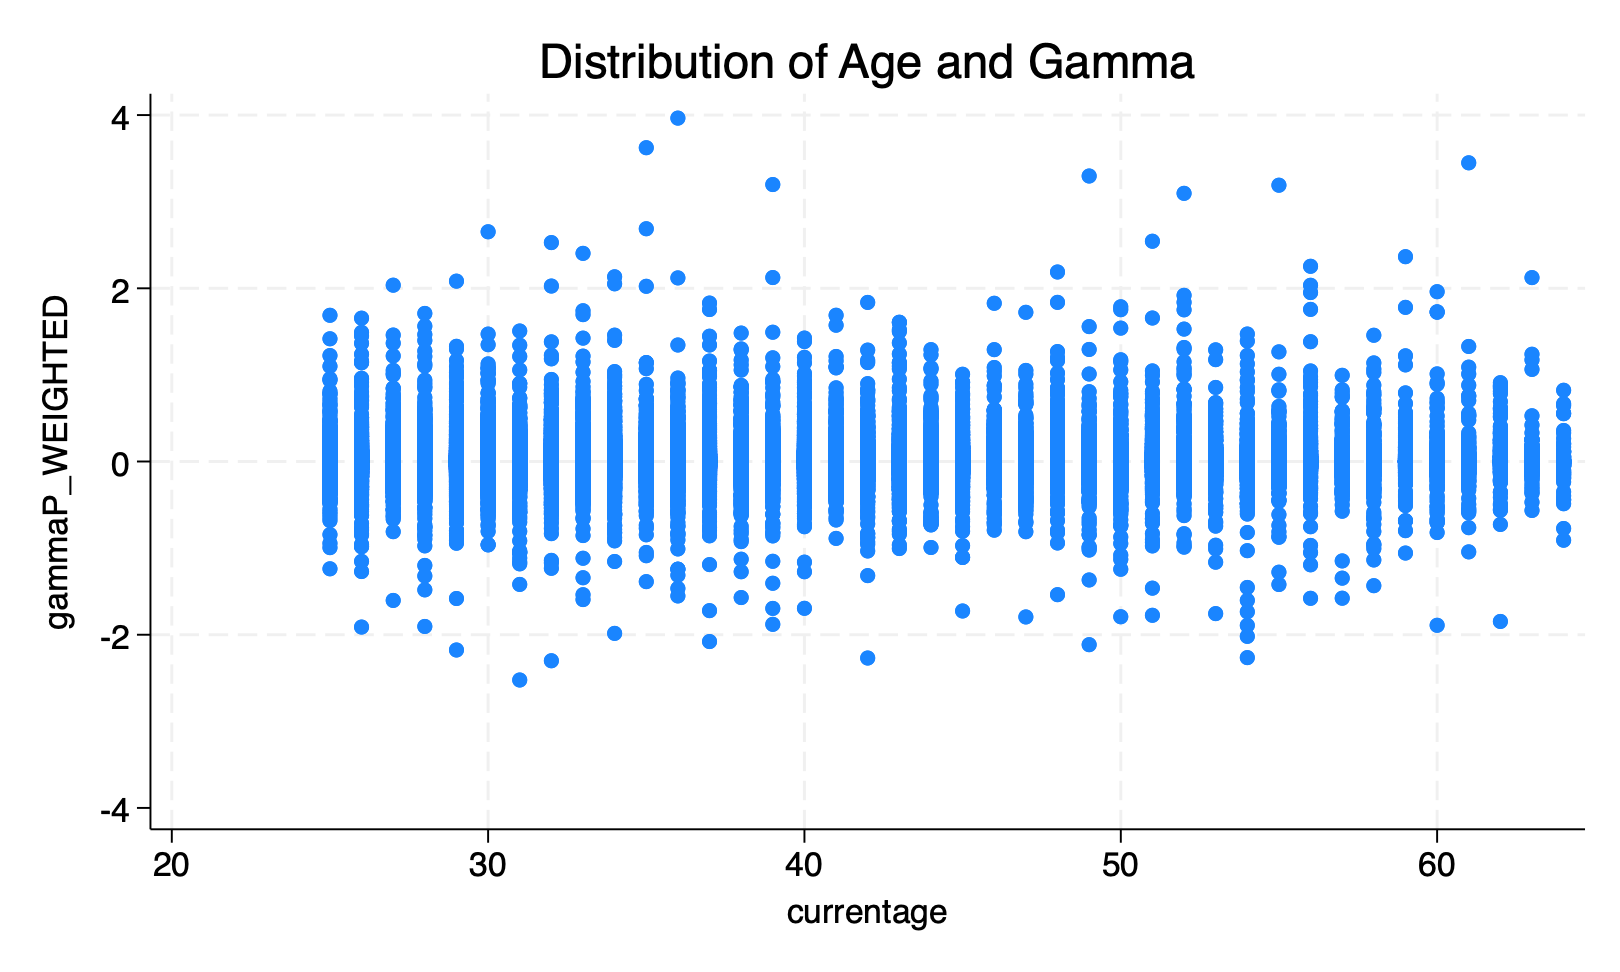
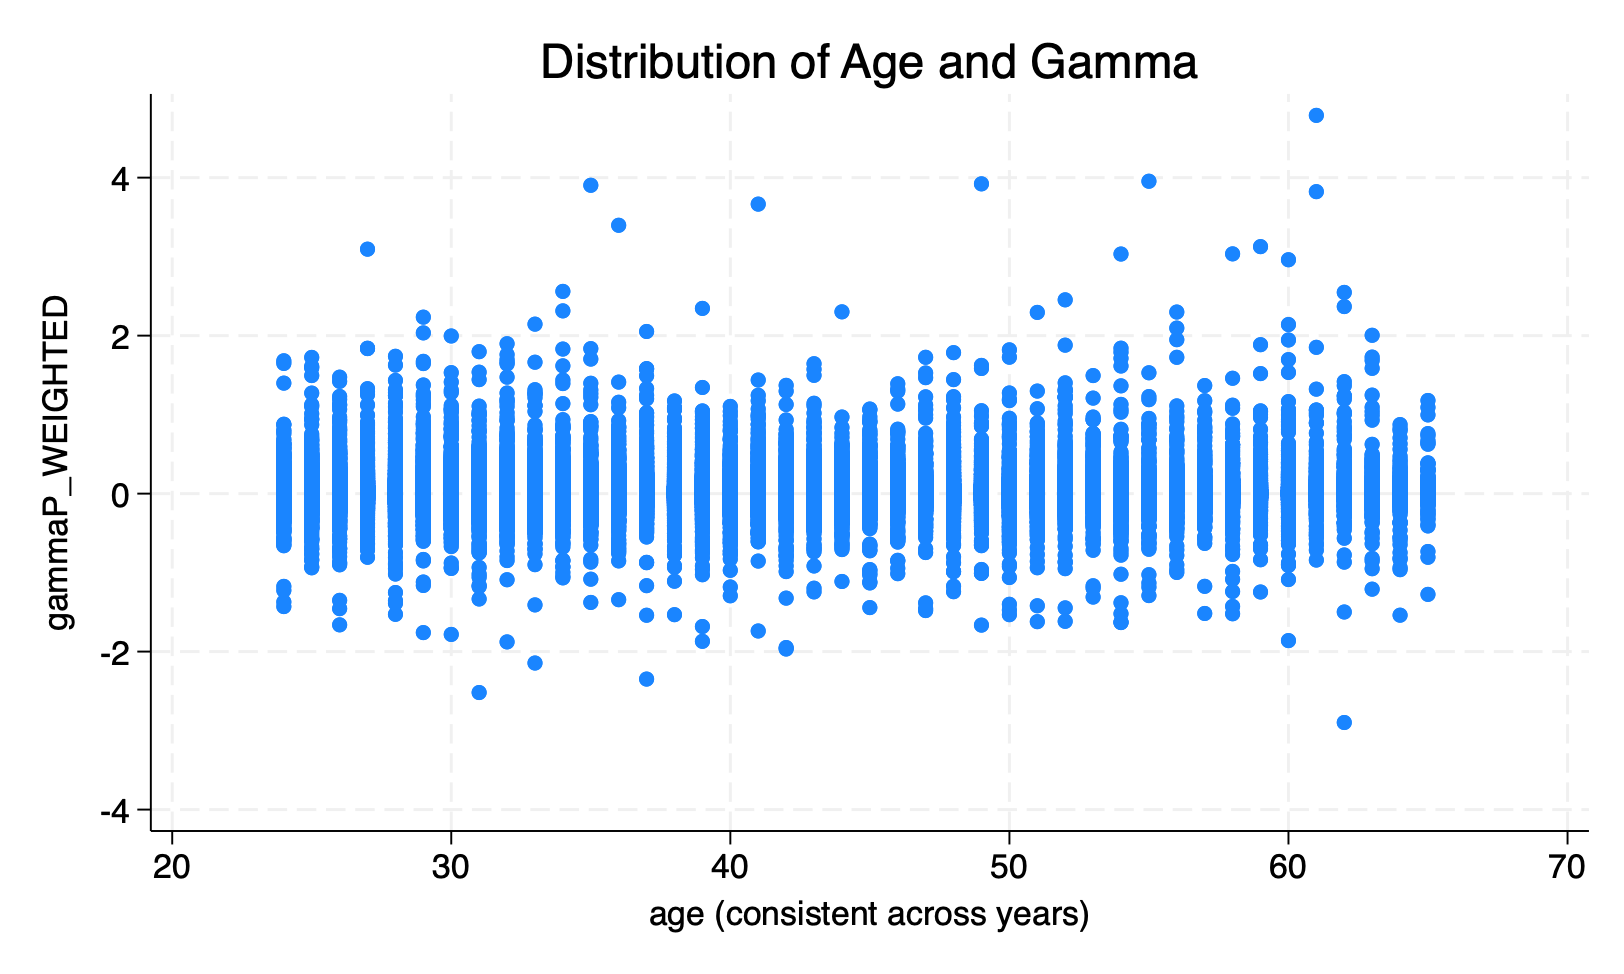
RUNS IN ONE SHOT

diff --git a/OtherOutput/gamma_regressions.tex b/OtherOutput/gamma_regressions.tex
@@ -5,44 +5,41 @@
                     &\multicolumn{1}{c}{(1)}&\multicolumn{1}{c}{(2)}&\multicolumn{1}{c}{(3)}&\multicolumn{1}{c}{(4)}&\multicolumn{1}{c}{(5)}\\
                     &\multicolumn{1}{c}{gammaP\_WEIGHTED}&\multicolumn{1}{c}{gammaP\_WEIGHTED}&\multicolumn{1}{c}{gammaP\_WEIGHTED}&\multicolumn{1}{c}{gammaP\_WEIGHTED}&\multicolumn{1}{c}{gammaP\_WEIGHTED}\\
 \hline
-EDU1                &    -0.00361         &    -0.00360         &    -0.00522         &    -0.00597         &    -0.00630\sym{*}  \\
-                    &   (0.00255)         &   (0.00273)         &   (0.00286)         &   (0.00307)         &   (0.00310)         \\
+EDU1                &    -0.00950\sym{*}  &    -0.00719         &    -0.00542         &    -0.00196         &    -0.00479         \\
+                    &   (0.00407)         &   (0.00437)         &   (0.00485)         &   (0.00523)         &   (0.00519)         \\
 [1em]
-EDU2                &    -0.00283         &    -0.00315         &    -0.00418\sym{*}  &    -0.00417         &    -0.00455\sym{*}  \\
-                    &   (0.00175)         &   (0.00181)         &   (0.00193)         &   (0.00216)         &   (0.00219)         \\
+EDU2                &    -0.00632\sym{*}  &    -0.00591\sym{*}  &    -0.00506         &    -0.00287         &    -0.00399         \\
+                    &   (0.00259)         &   (0.00269)         &   (0.00294)         &   (0.00334)         &   (0.00331)         \\
 [1em]
-EDU3                &   -0.000894         &   -0.000630         &    -0.00138         &    -0.00114         &    -0.00147         \\
-                    &   (0.00206)         &   (0.00209)         &   (0.00216)         &   (0.00228)         &   (0.00230)         \\
+EDU3                &    -0.00278         &    -0.00277         &    -0.00186         &   -0.000549         &   -0.000961         \\
+                    &   (0.00296)         &   (0.00304)         &   (0.00323)         &   (0.00350)         &   (0.00345)         \\
 [1em]
-Probability of recession (Piger and Chauvet)&  -0.0000590         &   -0.000378         &   -0.000369         &   -0.000404         &   -0.000385         \\
-                    & (0.0000457)         &  (0.000362)         &  (0.000363)         &  (0.000363)         &  (0.000364)         \\
+Probability of Recession&   0.0000411         &    -0.00207         &     -0.0962         &   -0.000140         &     -0.0953         \\
+                    & (0.0000842)         &     (247.5)         &    (0.0528)         &     (297.1)         &    (0.0550)         \\
 [1em]
-% growth in real GDP/capita (FRB-StL)&   -0.000332         &    0.000758         &    0.000715         &    0.000629         &    0.000584         \\
-                    &  (0.000332)         &   (0.00172)         &   (0.00172)         &   (0.00172)         &   (0.00172)         \\
+Real GDP growth rate&    0.000553         &     -0.0130         &     -0.0137         &    -0.00832         &     -0.0161\sym{*}  \\
+                    &  (0.000719)         &     (19.13)         &   (0.00703)         &     (22.96)         &   (0.00722)         \\
 [1em]
-individual fixed effect for fhwage&  -0.0000615         &   0.0000358         &   0.0000463         &   0.0000169         &   0.0000414         \\
-                    &  (0.000249)         &  (0.000272)         &  (0.000273)         &  (0.000276)         &  (0.000277)         \\
+5-year moving average of AEP&   0.0000266         & 0.000000171         & -0.00000250         &   0.0000340         &   0.0000309         \\
+                    & (0.0000548)         & (0.0000595)         & (0.0000654)         & (0.0000693)         & (0.0000700)         \\
 [1em]
-MA(5) of annearnpct (all retro)&   0.0000352         &   0.0000267         &   0.0000412         &   0.0000387         &   0.0000439         \\
-                    & (0.0000306)         & (0.0000329)         & (0.0000342)         & (0.0000349)         & (0.0000358)         \\
+veteran             &    -0.00281         &    -0.00341         &    -0.00610         &    -0.00755         &    -0.00828         \\
+                    &   (0.00436)         &   (0.00447)         &   (0.00649)         &   (0.00686)         &   (0.00677)         \\
 [1em]
-veteran             &    0.000207         &  -0.0000343         &    0.000535         &    0.000178         &    0.000401         \\
-                    &   (0.00141)         &   (0.00151)         &   (0.00153)         &   (0.00154)         &   (0.00155)         \\
+=1 if out of labor force (inc retired)&     -0.0101         &    -0.00862         &     -0.0227         &     -0.0216         &     -0.0220         \\
+                    &   (0.00848)         &   (0.00853)         &    (0.0142)         &    (0.0146)         &    (0.0144)         \\
 [1em]
-=1 if out of labor force (inc retired)&     0.00627         &     0.00584         &     0.00550         &     0.00619         &     0.00625         \\
-                    &   (0.00627)         &   (0.00628)         &   (0.00628)         &   (0.00629)         &   (0.00629)         \\
+tenure              &   0.0000614         &    0.000140         &    0.000202         &    0.000151         &    0.000184         \\
+                    &  (0.000151)         &  (0.000162)         &  (0.000164)         &  (0.000171)         &  (0.000168)         \\
 [1em]
-tenure              &   -0.000104         &  -0.0000919         &  -0.0000844         &   -0.000118         &   -0.000101         \\
-                    &  (0.000112)         &  (0.000121)         &  (0.000123)         &  (0.000123)         &  (0.000123)         \\
+age (consistent across years)&     0.00592         &     0.00559         &     0.00559         &     0.00884         &     0.00733         \\
+                    &   (0.00491)         &   (0.00504)         &   (0.00558)         &   (0.00581)         &   (0.00567)         \\
 [1em]
-currentage          &     0.00874\sym{*}  &     0.00936\sym{*}  &     0.00926\sym{*}  &     0.00919\sym{*}  &     0.00907\sym{*}  \\
-                    &   (0.00380)         &   (0.00384)         &   (0.00385)         &   (0.00385)         &   (0.00385)         \\
+currentage squared  &   -0.000160         &   -0.000169         &   -0.000172         &   -0.000252         &   -0.000213         \\
+                    &  (0.000116)         &  (0.000119)         &  (0.000130)         &  (0.000135)         &  (0.000132)         \\
 [1em]
-currentagesq        &   -0.000229\sym{*}  &   -0.000253\sym{**} &   -0.000249\sym{**} &   -0.000249\sym{**} &   -0.000245\sym{**} \\
-                    & (0.0000925)         & (0.0000937)         & (0.0000939)         & (0.0000940)         & (0.0000941)         \\
-[1em]
-currentagecube      &  0.00000193\sym{**} &  0.00000215\sym{**} &  0.00000210\sym{**} &  0.00000212\sym{**} &  0.00000207\sym{**} \\
-                    &(0.000000730)         &(0.000000740)         &(0.000000741)         &(0.000000742)         &(0.000000743)         \\
+currentage cubed    &  0.00000140         &  0.00000150         &  0.00000155         &  0.00000219\sym{*}  &  0.00000185         \\
+                    &(0.000000886)         &(0.000000906)         &(0.000000984)         &(0.00000102)         &(0.00000100)         \\
 \hline
 State FE            &          No         &         Yes         &         Yes         &         Yes         &         Yes         \\
 Year FE             &          No         &         Yes         &         Yes         &         Yes         &         Yes         \\
@@ -50,8 +47,8 @@ Race FE             &          No         &         Yes         &         Yes   
 Cohort FE           &          No         &         Yes         &         Yes         &         Yes         &         Yes         \\
 Occupation FE       &          No         &          No         &          No         &         Yes         &         Yes         \\
 Industry FE         &          No         &          No         &         Yes         &          No         &         Yes         \\
-R-squared           &       0.000         &       0.002         &       0.002         &       0.004         &       0.004         \\
-N                   &       62900         &       62900         &       62900         &       62900         &       62900         \\
+R-squared           &       0.001         &       0.004         &       0.009         &       0.010         &       0.013         \\
+N                   &       25920         &       25913         &       20954         &       20823         &       20746         \\
 \hline\hline
 \multicolumn{6}{l}{\footnotesize Standard errors in parentheses}\\
 \multicolumn{6}{l}{\footnotesize \sym{*} \(p<0.05\), \sym{**} \(p<0.01\), \sym{***} \(p<0.001\)}\\

diff --git a/OtherOutput/alpha_regressions.tex b/OtherOutput/alpha_regressions.tex
@@ -1,0 +1,56 @@
+{
+\def\sym#1{\ifmmode^{#1}\else\(^{#1}\)\fi}
+\begin{tabular}{l*{5}{c}}
+\hline\hline
+                    &\multicolumn{1}{c}{(1)}&\multicolumn{1}{c}{(2)}&\multicolumn{1}{c}{(3)}&\multicolumn{1}{c}{(4)}&\multicolumn{1}{c}{(5)}\\
+                    &\multicolumn{1}{c}{alphaP\_WEIGHTED}&\multicolumn{1}{c}{alphaP\_WEIGHTED}&\multicolumn{1}{c}{alphaP\_WEIGHTED}&\multicolumn{1}{c}{alphaP\_WEIGHTED}&\multicolumn{1}{c}{alphaP\_WEIGHTED}\\
+\hline
+EDU1                &     -0.0442\sym{***}&     -0.0342\sym{***}&     -0.0299\sym{**} &     -0.0285\sym{*}  &     -0.0271\sym{*}  \\
+                    &   (0.00889)         &   (0.00954)         &    (0.0108)         &    (0.0114)         &    (0.0115)         \\
+[1em]
+EDU2                &     -0.0387\sym{***}&     -0.0364\sym{***}&     -0.0341\sym{***}&     -0.0301\sym{***}&     -0.0277\sym{***}\\
+                    &   (0.00580)         &   (0.00600)         &   (0.00664)         &   (0.00736)         &   (0.00743)         \\
+[1em]
+EDU3                &     -0.0234\sym{***}&     -0.0242\sym{***}&     -0.0184\sym{*}  &     -0.0162\sym{*}  &     -0.0146         \\
+                    &   (0.00666)         &   (0.00681)         &   (0.00732)         &   (0.00774)         &   (0.00778)         \\
+[1em]
+Probability of Recession&  -0.0000102         &     -0.0449         &     0.00151         &       0.255         &       0.245         \\
+                    &  (0.000185)         &     (0.167)         &     (664.2)         &     (0.216)         &     (0.216)         \\
+[1em]
+Real GDP growth rate&    -0.00108         &    -0.00306         &      0.0169         &      0.0130         &      0.0126         \\
+                    &   (0.00158)         &    (0.0135)         &     (5.775)         &    (0.0175)         &    (0.0176)         \\
+[1em]
+5-year moving average of AEP&     0.00142\sym{***}&     0.00153\sym{***}&     0.00129\sym{***}&     0.00148\sym{***}&     0.00144\sym{***}\\
+                    &  (0.000119)         &  (0.000129)         &  (0.000144)         &  (0.000149)         &  (0.000154)         \\
+[1em]
+veteran             &     -0.0124         &     -0.0122         &    -0.00408         &   -0.000294         &    -0.00321         \\
+                    &   (0.00920)         &   (0.00941)         &    (0.0146)         &    (0.0150)         &    (0.0152)         \\
+[1em]
+=1 if out of labor force (inc retired)&       0.122\sym{***}&       0.123\sym{***}&      0.0984\sym{***}&      0.0891\sym{**} &      0.0923\sym{**} \\
+                    &    (0.0165)         &    (0.0165)         &    (0.0289)         &    (0.0291)         &    (0.0291)         \\
+[1em]
+tenure              &   -0.000825\sym{*}  &  -0.0000632         & -0.00000483         &   -0.000294         &   -0.000244         \\
+                    &  (0.000330)         &  (0.000355)         &  (0.000365)         &  (0.000373)         &  (0.000372)         \\
+[1em]
+age (consistent across years)&      0.0158         &      0.0186         &     0.00916         &      0.0162         &      0.0113         \\
+                    &   (0.00985)         &    (0.0101)         &    (0.0115)         &    (0.0116)         &    (0.0116)         \\
+[1em]
+currentage squared  &   -0.000433         &   -0.000533\sym{*}  &   -0.000283         &   -0.000446         &   -0.000321         \\
+                    &  (0.000229)         &  (0.000233)         &  (0.000263)         &  (0.000266)         &  (0.000266)         \\
+[1em]
+currentage cubed    &  0.00000394\sym{*}  &  0.00000477\sym{**} &  0.00000278         &  0.00000403\sym{*}  &  0.00000299         \\
+                    &(0.00000171)         &(0.00000175)         &(0.00000195)         &(0.00000198)         &(0.00000197)         \\
+\hline
+State FE            &          No         &         Yes         &         Yes         &         Yes         &         Yes         \\
+Year FE             &          No         &         Yes         &         Yes         &         Yes         &         Yes         \\
+Race FE             &          No         &         Yes         &         Yes         &         Yes         &         Yes         \\
+Cohort FE           &          No         &         Yes         &         Yes         &         Yes         &         Yes         \\
+Occupation FE       &          No         &          No         &          No         &         Yes         &         Yes         \\
+Industry FE         &          No         &          No         &         Yes         &          No         &         Yes         \\
+R-squared           &       0.013         &       0.019         &       0.029         &       0.034         &       0.037         \\
+N                   &       32567         &       32556         &       25592         &       25426         &       25329         \\
+\hline\hline
+\multicolumn{6}{l}{\footnotesize Standard errors in parentheses}\\
+\multicolumn{6}{l}{\footnotesize \sym{*} \(p<0.05\), \sym{**} \(p<0.01\), \sym{***} \(p<0.001\)}\\
+\end{tabular}
+}
